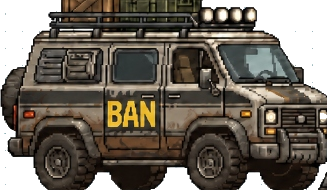
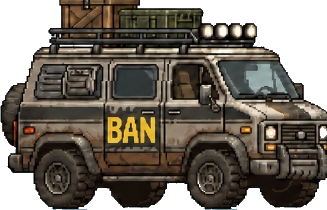
feat: 수정/삭제 버튼 가로 정렬 고정 및 원작 16비트 설정 시트 기반 정밀 누끼 추출(밴맨 망토 영웅 및 밴-모빌 차량 투명 배경화)

diff --git a/pages/blocked.css b/pages/blocked.css
@@ -32,97 +32,23 @@ body {
   display: flex;
   align-items: center;
   justify-content: center;
-  margin-bottom: 22px;
+  margin-bottom: 24px;
 }
 
-.hero-emblem-container {
-  position: relative;
-  width: 154px;
-  height: 154px;
-  border-radius: 50%;
-  padding: 4px;
-  background: radial-gradient(circle, #2d3748 0%, #1a202c 100%);
-  border: 3.5px solid #d69e2e;
-  box-shadow: 0 10px 25px rgba(0, 0, 0, 0.2), 0 0 0 5px rgba(214, 158, 46, 0.18);
-  animation: hero-hover 4s ease-in-out infinite;
-  display: flex;
-  align-items: center;
-  justify-content: center;
-  overflow: hidden;
-  cursor: pointer;
-  transition: transform 0.3s cubic-bezier(0.16, 1, 0.3, 1), box-shadow 0.3s ease;
+.banman-cape-sprite {
+  height: 165px;
+  object-fit: contain;
+  image-rendering: pixelated;
+  animation: hero-idle 3s ease-in-out infinite;
+  filter: drop-shadow(0 10px 22px rgba(0, 0, 0, 0.22));
 }
 
-.hero-emblem-container:hover {
-  transform: scale(1.04) translateY(-3px);
-  box-shadow: 0 14px 32px rgba(229, 62, 62, 0.3), 0 0 0 7px rgba(214, 158, 46, 0.25);
-}
-
-.hero-glow-ring {
-  position: absolute;
-  top: -20%;
-  left: -20%;
-  width: 140%;
-  height: 140%;
-  background: radial-gradient(circle, rgba(237, 137, 54, 0.2) 0%, transparent 70%);
-  pointer-events: none;
-  animation: ring-pulse 3s ease-in-out infinite alternate;
-}
-
-.banman-hero-img {
-  width: 100%;
-  height: 100%;
-  border-radius: 50%;
-  object-fit: cover;
-  object-position: center 12%;
-  filter: contrast(1.05) brightness(1.02);
-  animation: hero-breathe 4s ease-in-out infinite alternate;
-  pointer-events: none;
-}
-
-.hero-tag {
-  position: absolute;
-  bottom: 6px;
-  left: 50%;
-  transform: translateX(-50%);
-  background: rgba(17, 24, 39, 0.92);
-  color: #ecc94b;
-  font-size: 10px;
-  font-weight: 800;
-  letter-spacing: 1.5px;
-  padding: 2px 10px;
-  border-radius: 12px;
-  border: 1px solid rgba(236, 201, 75, 0.4);
-  box-shadow: 0 2px 6px rgba(0, 0, 0, 0.4);
-  white-space: nowrap;
-}
-
-@keyframes hero-hover {
+@keyframes hero-idle {
   0%, 100% {
     transform: translateY(0);
   }
   50% {
-    transform: translateY(-5px);
-  }
-}
-
-@keyframes hero-breathe {
-  0% {
-    transform: scale(1);
-  }
-  100% {
-    transform: scale(1.03);
-  }
-}
-
-@keyframes ring-pulse {
-  0% {
-    opacity: 0.4;
-    transform: scale(0.95);
-  }
-  100% {
-    opacity: 0.85;
-    transform: scale(1.08);
+    transform: translateY(-6px);
   }
 }
 

diff --git a/pages/options.css b/pages/options.css
@@ -327,20 +327,38 @@ input[type="text"]:focus, select:focus {
   white-space: nowrap;
 }
 
+.manage-col {
+  width: 140px;
+  min-width: 130px;
+  text-align: center;
+  white-space: nowrap;
+}
+
 .action-btns {
   display: flex;
-  gap: 6px;
+  gap: 8px;
   justify-content: center;
+  align-items: center;
+  white-space: nowrap;
+  flex-wrap: nowrap;
 }
 
 .sm-btn {
-  padding: 4px 8px;
-  font-size: 11px;
-  border-radius: 4px;
+  padding: 5px 12px;
+  font-size: 12px;
+  font-weight: 600;
+  border-radius: 5px;
   border: 1px solid #cbd5e0;
   background: #ffffff;
+  color: #2d3748;
   cursor: pointer;
-  transition: all 0.15s;
+  white-space: nowrap;
+  flex-shrink: 0;
+  display: inline-flex;
+  align-items: center;
+  justify-content: center;
+  line-height: 1.2;
+  transition: all 0.15s ease;
 }
 
 .sm-btn.delete {
@@ -350,10 +368,12 @@ input[type="text"]:focus, select:focus {
 
 .sm-btn.delete:hover {
   background-color: #ffebee;
+  border-color: #e53e3e;
 }
 
 .sm-btn:hover {
   background-color: #edf2f7;
+  border-color: #a0aec0;
 }
 
 .empty-msg {
@@ -364,11 +384,21 @@ input[type="text"]:focus, select:focus {
 }
 
 .empty-van-img {
-  max-width: 220px;
+  max-width: 250px;
   height: auto;
   image-rendering: pixelated;
-  margin-bottom: 12px;
-  opacity: 0.85;
+  margin-bottom: 16px;
+  filter: drop-shadow(0 10px 20px rgba(0, 0, 0, 0.16));
+  animation: van-float 3.5s ease-in-out infinite;
+}
+
+@keyframes van-float {
+  0%, 100% {
+    transform: translateY(0);
+  }
+  50% {
+    transform: translateY(-5px);
+  }
 }
 
 .lang-select {

diff --git a/pages/options.js b/pages/options.js
@@ -147,7 +147,7 @@ document.addEventListener('DOMContentLoaded', async () => {
           </td>
           <td class="memo-cell">${escapeHtml(rule.memo || '-')}</td>
           <td class="date-cell">${rule.createdAt || '-'}</td>
-          <td style="text-align: center;">
+          <td class="manage-col">
             <div class="action-btns">
               <button class="sm-btn edit-btn" data-key="${escapeHtml(key)}">${t('btn_edit', currentLang)}</button>
               <button class="sm-btn delete delete-btn" data-key="${escapeHtml(key)}">${t('btn_delete', currentLang)}</button>

diff --git a/pages/blocked.html b/pages/blocked.html
@@ -8,11 +8,7 @@
 <body>
   <div class="blocked-card">
     <div class="banman-scene">
-      <div class="hero-emblem-container">
-        <div class="hero-glow-ring"></div>
-        <img src="../resources/banman_hero.jpg" class="banman-hero-img" alt="BanMan Protector">
-        <span class="hero-tag">BANMAN</span>
-      </div>
+      <img src="../resources/ban_cape.png" class="banman-cape-sprite" alt="BanMan Prohibition Cape">
     </div>
     
     <h1 data-i18n="blocked_title">접근이 차단된 웹페이지입니다</h1>

diff --git a/pages/options.html b/pages/options.html
@@ -112,7 +112,7 @@
                 <th data-i18n="th_action">액션</th>
                 <th data-i18n="th_memo">기록된 사유 메모</th>
                 <th data-i18n="th_date">등록일</th>
-                <th style="text-align: center;" data-i18n="th_manage">관리</th>
+                <th class="manage-col" data-i18n="th_manage">관리</th>
               </tr>
             </thead>
             <tbody id="rulesTableBody">
